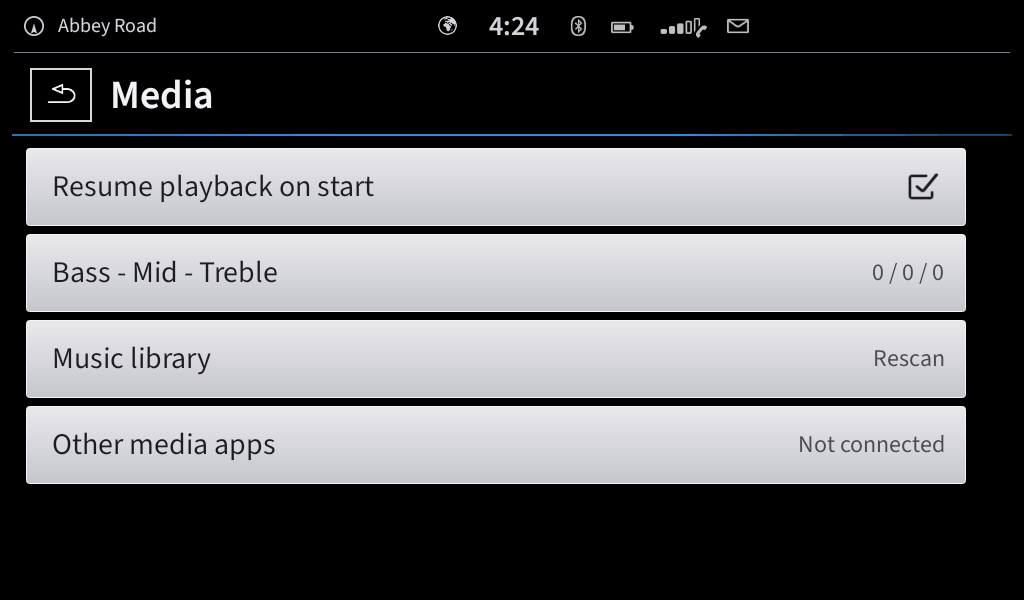
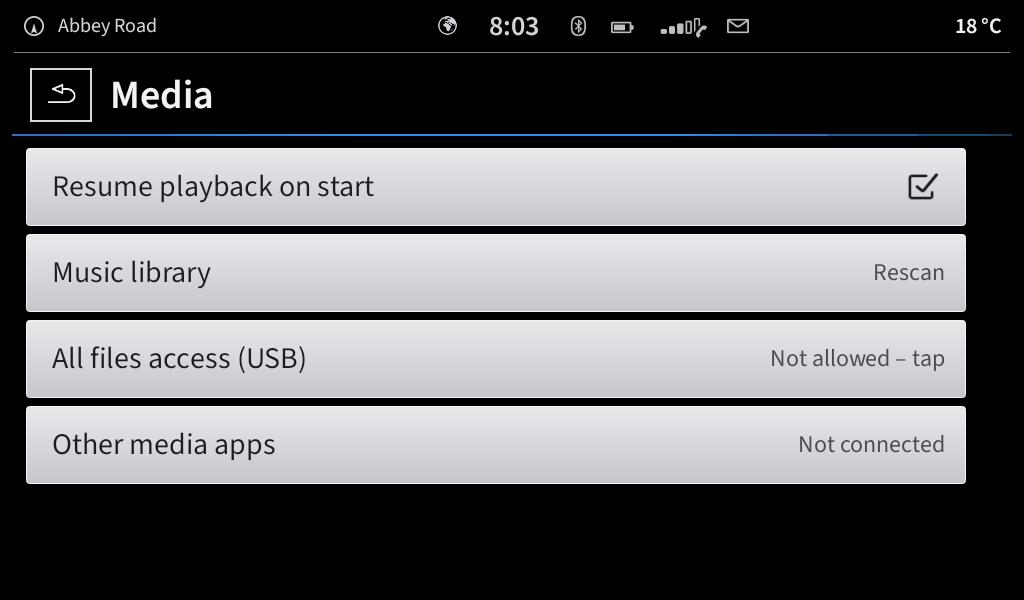
Back arrow where a page has no back key; README with new screenshots and options
The status bar shows a back arrow on pages without their own back key (hidden
on MENU, Sound, Ambient and settings sub-pages). README refreshed: App-Connect,
radio with logos, media widget / split screen, loading banner, vehicle pictures,
trimmed settings, temperature; screenshots regenerated.

Claude-Session: https://claude.ai/code/session_0111hCwS1Z8expNncaE3Z6rw

diff --git a/app/src/main/java/com/thecarlauncher/LauncherActivity.java b/app/src/main/java/com/thecarlauncher/LauncherActivity.java
@@ -79,6 +79,7 @@ public class LauncherActivity extends Activity implements LocationTracker.Listen
     private FrameLayout content;
     private TextView timeView, tagView, rightView, streetView;
     private View statusBar, statusRule;
+    private ImageView backArrow;
     private ImageView btIcon, battIcon, signalIcon, msgIcon;
     private ImageView globe;
 
@@ -198,6 +199,19 @@ public class LauncherActivity extends Activity implements LocationTracker.Listen
                 show(MENU, true);
             }
         });
+        // Back arrow for pages that have no back key of their own.
+        backArrow = Mib.icon(this, R.drawable.ui_ic_back, SB_GREY);
+        backArrow.setBackground(Mib.keyPressed());
+        backArrow.setPadding(Mib.px(this, 4), Mib.px(this, 4), Mib.px(this, 4), Mib.px(this, 4));
+        backArrow.setOnClickListener(new View.OnClickListener() {
+            @Override
+            public void onClick(View v) {
+                onBackPressed();
+            }
+        });
+        LinearLayout.LayoutParams bal = new LinearLayout.LayoutParams(Mib.px(this, 44), Mib.px(this, 40));
+        bal.rightMargin = Mib.px(this, 14);
+        left.addView(backArrow, bal);
         ImageView compass = Mib.icon(this, R.drawable.ui_sb_compass, SB_GREY);
         left.addView(compass, new LinearLayout.LayoutParams(Mib.px(this, 24), Mib.px(this, 24)));
         streetView = Mib.text(this, "", 20, Mib.regular(this), SB_GREY);
@@ -354,6 +368,13 @@ public class LauncherActivity extends Activity implements LocationTracker.Listen
         if (current != MENU) show(MENU, true);
     }
 
+    /** Shows the status-bar back arrow unless the page has its own back key. */
+    public void updateBackArrow() {
+        if (backArrow == null) return;
+        boolean own = current >= 0 && screens[current] != null && screens[current].hasOwnBack();
+        backArrow.setVisibility(current == MENU || own ? View.GONE : View.VISIBLE);
+    }
+
     /** Kept for screens that still ask for an accent colour. */
     public int accent() { return Mib.BLUE; }
 
@@ -374,6 +395,7 @@ public class LauncherActivity extends Activity implements LocationTracker.Listen
         int bar = idx == MENU ? View.GONE : View.VISIBLE;
         statusBar.setVisibility(bar);
         statusRule.setVisibility(bar);
+        updateBackArrow();
         Screen s = screens[idx];
         View v = s.view(content);
         if (v.getParent() == null) {

diff --git a/app/src/main/java/com/thecarlauncher/screens/SettingsScreen.java b/app/src/main/java/com/thecarlauncher/screens/SettingsScreen.java
@@ -139,6 +139,7 @@ public class SettingsScreen extends Screen {
         Entry e = stack.get(stack.size() - 1);
         title.setText(e.title);
         back.setVisibility(stack.size() > 1 ? View.VISIBLE : View.GONE);
+        act.updateBackArrow();
         content.removeAllViews();
         e.page.build();
         // Pages fade in like the rest of the launcher (not when only refreshing values).
@@ -160,6 +161,9 @@ public class SettingsScreen extends Screen {
         quietRender = true;
         render();
     }
+
+    @Override
+    public boolean hasOwnBack() { return stack.size() > 1; }
 
     @Override
     public boolean onBack() {

diff --git a/app/src/main/java/com/thecarlauncher/screens/Screen.java b/app/src/main/java/com/thecarlauncher/screens/Screen.java
@@ -33,6 +33,9 @@ public abstract class Screen {
 
     public void onDestroy() {}
 
+    /** True when the page draws its own back key (then the status bar shows none). */
+    public boolean hasOwnBack() { return false; }
+
     /** Return true if the back press was handled inside the screen. */
     public boolean onBack() { return false; }
 

diff --git a/app/src/main/java/com/thecarlauncher/screens/SoundScreen.java b/app/src/main/java/com/thecarlauncher/screens/SoundScreen.java
@@ -30,6 +30,9 @@ public class SoundScreen extends Screen {
     }
 
     @Override
+    public boolean hasOwnBack() { return true; }
+
+    @Override
     public String title() { return s("Duboki - Srednji - Visoki", "Bass - Mid - Treble"); }
 
     private String s(String sr, String en) { return Mib.t(act, sr, en); }

diff --git a/app/src/main/java/com/thecarlauncher/screens/AmbientScreen.java b/app/src/main/java/com/thecarlauncher/screens/AmbientScreen.java
@@ -41,6 +41,9 @@ public class AmbientScreen extends Screen {
     }
 
     @Override
+    public boolean hasOwnBack() { return true; }
+
+    @Override
     public String title() { return s("Ambijentalno osvetljenje", "Ambient lighting"); }
 
     private String s(String sr, String en) { return Mib.t(act, sr, en); }

diff --git a/README.md b/README.md
@@ -54,14 +54,21 @@ Text is in Serbian (Latin) by default; English can be picked under
 - **Bluetooth music without the factory app on screen**: song title, artist, album, position
   and length are read straight from the unit's Bluetooth module. Cover art is looked up
   online.
-- **Built-in FM radio** that drives the unit's tuner through the MCU: presets, RDS names, a
-  station list scan and the factory manual dial.
+- **Built-in FM radio** that drives the unit's tuner through the MCU: presets with station
+  logos, RDS names, a station list scan and the factory manual dial.
+- **App-Connect** page in the factory style that drives the unit's ZLink app (Android Auto,
+  CarPlay, mirroring) and shows the connection live.
 - **Navigation on OpenStreetMap**: address search, routing, turn-by-turn voice
   prompts, re-routing, nearby places, and **offline maps** of whole countries drawn on the unit.
 - **Vehicle page** in the style of a factory *Vehicle status* screen, with a picture of the car, GPS trip
   computer, fuel log and service reminders. No OBD adapter needed.
 - **Ambient lighting** and **Bass – Mid – Treble** pages modelled on the factory ones.
-- **Phone status in the top bar**: Bluetooth, phone battery, signal and a notifications envelope.
+- **Phone status in the top bar**: Bluetooth, phone battery, signal, a notifications envelope and
+  the outside temperature.
+- **Drop-down loading banner** for anything that takes a moment (radio scan, reading USB, maps,
+  route, phone connecting), soft fade-in on every page, and a back arrow wherever a page has no
+  back key of its own.
+- **Own car pictures**: brand, model and the car / interior pictures can be set from storage.
 - **True fullscreen** (no Android bars) and a smooth, GPU-accelerated MENU pager.
 
 ---
@@ -70,8 +77,8 @@ Text is in Serbian (Latin) by default; English can be picked under
 
 ### MENU
 
-Eight tiles in a 4×2 grid: **Radio, Media, Apps, App-Connect, Phone, Vehicle, Navigation,
-Setup**. Swipe left for a second page of pinned apps.
+Eight nearly black tiles in a 4×2 grid, with no status bar, like the factory MENU: **Radio, Media,
+Apps, App-Connect, Phone, Vehicle, Navigation, Setup**. Swipe left for a second page of pinned apps.
 
 - The page follows your finger 1:1 and glides to rest. It turns only in the direction you dragged:
   a quarter of the screen or a quick flick. It never stretches past the first or last page.
@@ -129,12 +136,9 @@ Related settings (*Setup → Bluetooth audio*):
 
 | Setting | Default | What it does |
 | --- | --- | --- |
-| Song straight from the BT module | On | Reads song info from `/dev/goc_serial`. Turn it off if the factory app stops getting calls or songs. |
-| Open the BT app briefly when choosing BT audio | Off | Fallback for units where the control broadcast is not enough: shows the factory app for about a second and comes back (needs **Display over other apps** for Car Launcher). |
 | Cover art from the internet | On | Online lookup of the cover by artist and title. |
-| BT audio app | Automatic | Which app is the Bluetooth player (the factory one is hidden from the app list). |
-| MCU channel for BT audio | Off | Advanced: forces an MCU audio channel. Normally not needed. |
-| Diagnostics | – | Shows what the module sends (`GOC ←` lines), media sessions, factory broadcasts, MCU packets and more. |
+| Open the BT app briefly (if there is no sound) | Off | Fallback for units where the control broadcast is not enough: shows the factory app for about a second and comes back (needs **Display over other apps** for Car Launcher). |
+| Diagnostics | – | Phone battery / signal, media sessions, the song as the Bluetooth module reports it and the module's last lines. |
 
 ### Radio
 
@@ -147,14 +151,16 @@ A built-in FM radio that controls the unit's real tuner through the MCU service.
   logo and its name under the tile.
 - Station logos come from the free [Radio Browser](https://www.radio-browser.info) database by RDS
   name: fetched automatically when a station is shown, or all at once with *Setup → Radio →
-  Download logos for found stations*. They are kept on the unit; none are bundled in the APK. Tap a preset to tune, long-press to store; an
-  empty slot says *Empty*.
+  Download logos for found stations*. They are kept on the unit; none are bundled in the APK.
+- Tap a preset to tune, long-press to store; an empty slot says *Empty*.
 - **Stations** scans the band into a station list.
 - **Manual** shows the factory FM dial for drag-tuning; the arrows then step 0.1 MHz.
 - Steering-wheel next/previous seek to the next station while the radio is the source.
 - On a unit without `mcu_service`, the Radio tile opens the factory radio app instead.
 
-![Radio station list](docs/screenshots/radio-stations.png)
+| Presets | Station list |
+| --- | --- |
+| ![Radio](docs/screenshots/radio.png) | ![Radio station list](docs/screenshots/radio-stations.png) |
 
 ### Navigation
 
@@ -180,6 +186,14 @@ offline (see [Offline maps](#offline-maps)); address search and routing need int
 | Route | Nearby | My destinations |
 | --- | --- | --- |
 | ![Route](docs/screenshots/nav-route.png) | ![Nearby](docs/screenshots/nav-nearby.png) | ![Destinations](docs/screenshots/nav-destinations.png) |
+
+**Media while navigating.** *Media* opens a small widget over the map with the cover, song and
+previous / play / next; it hides itself after 10 seconds. Its split button keeps the media in a
+column beside the map (remembered); long-press *Media* for the full Media screen.
+
+| Media widget | Split screen |
+| --- | --- |
+| ![Media widget](docs/screenshots/nav-media-widget.png) | ![Split screen](docs/screenshots/nav-media-split.png) |
 
 #### Offline maps
 
@@ -215,6 +229,10 @@ with the three phone-mode logos along the bottom (Android Auto, Apple CarPlay, M
 - *Setup* opens ZLink's own settings. Without ZLink, the page falls back to any other projection
   app found on the unit.
 
+| Waiting for a phone | Connecting | Connected |
+| --- | --- | --- |
+| ![App-Connect](docs/screenshots/appconnect.png) | ![Connecting](docs/screenshots/appconnect-connecting.png) | ![Connected](docs/screenshots/appconnect-connected.png) |
+
 ### Vehicle (CAR)
 
 Paged with the **<** **>** boxes like the factory menu. Everything comes from GPS and what you
@@ -232,6 +250,10 @@ enter; no diagnostic adapter is needed.
 | Status | Since refuelling | Fuel log | Service |
 | --- | --- | --- | --- |
 | ![Status](docs/screenshots/vehicle-status.png) | ![Refuel](docs/screenshots/vehicle-refuel.png) | ![Fuel](docs/screenshots/vehicle-fuel.png) | ![Service](docs/screenshots/vehicle-service.png) |
+
+*Setup → Vehicle* sets the brand and model and lets you pick your own car picture (Vehicle status)
+and interior picture (Ambient lighting) from the unit's storage; *Back to built-in* restores the
+originals.
 
 ### Ambient lighting
 
@@ -257,18 +279,30 @@ with a **Bluetooth audio** tile that switches the media player to BT.
 
 ### Settings
 
-*System settings*: screen, ambient lighting, time and date, language,
-units, navigation (map style, voice), media, Bluetooth audio, App-Connect, phone and radio, vehicle,
-Android settings and system information.
+*System settings*: screen, ambient lighting, time and date, language, units, navigation (offline
+maps, map style, voice, home / work), sound, media (library, All files access, other media apps),
+radio (LOC, RDS, station logos), Bluetooth audio, phone app, vehicle (brand, model, pictures),
+Android settings and system information. Options that no longer did anything useful were removed.
 
-| Settings | Media settings | Diagnostics |
-| --- | --- | --- |
-| ![Settings](docs/screenshots/settings.png) | ![Media settings](docs/screenshots/settings-media.png) | ![Diagnostics](docs/screenshots/diagnostics.png) |
+| Settings | Vehicle | Bluetooth audio | Radio |
+| --- | --- | --- | --- |
+| ![Settings](docs/screenshots/settings.png) | ![Vehicle](docs/screenshots/settings-vehicle.png) | ![Bluetooth](docs/screenshots/settings-bluetooth.png) | ![Radio](docs/screenshots/settings-radio.png) |
+
+### Loading banner
+
+Anything that takes a moment drops a black banner, two status bars tall, from the top: the factory
+spinner (in the ambient colour, turning clockwise) and a line saying what is happening, e.g.
+*Searching for radio stations… 4 · 94.8 MHz*, *Reading music from USB…*, *Downloading map: 34 %*,
+*Calculating the route…* or *Connecting: Apple CarPlay…*. It slides away when done and never
+blocks taps.
+
+![Loading banner](docs/screenshots/loading-banner.png)
 
 ### Status bar
 
 From left to right:
 
+- **Back arrow** on pages that have no back key of their own.
 - **Compass and street name**: the current street from GPS and reverse geocoding. Tap it to go
   to MENU.
 - **Globe**: shown dimmed when there is no internet.
@@ -276,7 +310,8 @@ From left to right:
 - **Phone icons**: FM while the radio plays, the **Bluetooth** icon, phone **battery**,
   **signal**, and an **envelope** when the phone has notifications. Tap the envelope to list
   them.
-- **Speed**: shown on the right.
+- **Outside temperature** on the right: the current weather at the car's position (Open-Meteo,
+  refreshed every 15 minutes).
 
 The text and icons are a touch dimmer than the screen content, like the factory screen.
 
@@ -307,8 +342,8 @@ Requires Android 5.0 or newer.
 
 Then, in *Setup*:
 
-- **Bluetooth audio**: leave *Song straight from the BT module* on, and play something on the
-  phone to check that the title shows.
+- **Bluetooth audio**: choose *BT-audio* in Media and play something on the phone to check that
+  the title shows.
 - **Radio**: check that *FM tuner* says it is available.
 - **Vehicle → Service**: enter the odometer, the oil-change interval and the registration
   date so the reminders work.
@@ -411,10 +446,10 @@ information shows *robolectric*.
 
 | Problem | What to try |
 | --- | --- |
-| BT music plays but no title shows | *Setup → Bluetooth audio*: make sure *Song straight from the BT module* is on. Open *Diagnostics* and tap *GOC: ask for song info*; the `GOC ←` lines should show `MI…`. |
-| No sound after choosing BT-audio | Turn on *Open the BT app briefly when choosing BT audio* as a fallback. |
+| BT music plays but no title shows | *Setup → Bluetooth audio → Diagnostics* → *Ask for song info*; the `←` lines should show `MI…`. Send a photo of that page with a bug report. |
+| No sound after choosing BT-audio | Turn on *Open the BT app briefly (if there is no sound)* as a fallback. |
 | The BT app opens and stays on screen | Allow *Display over other apps* for Car Launcher (*Setup → Bluetooth audio → Allow returning from the BT app*). |
-| Calls stop working in the factory app | Turn off *Song straight from the BT module* and report it. |
+| Calls stop working in the factory app | Report it with the *Potential issue* form. |
 | No cover art | The unit needs internet. Songs whose "artist" is a video channel name may not be found. |
 | Radio tile opens another app | `mcu_service` wasn't found. *Setup → Radio* shows the tuner status. |
 | Other apps' songs don't show | Enable notification access: *Media → Source → Connect apps*. |
@@ -429,7 +464,9 @@ information shows *robolectric*.
 | BT song title / artist / album from the module | Confirmed |
 | BT position, length and full progress bar | Confirmed |
 | UI, MENU, status bar, fullscreen | In daily use |
-| BT-audio: app opens briefly, launcher comes back | New in 3.2.1, needs testing |
+| BT-audio through the factory app's control broadcast (no screen) | New in 3.7.0, needs testing |
+| App-Connect connection states and auto-open | New in 3.9.0, needs testing with a phone |
+| Station logos (Radio Browser) | New in 4.0.0, needs testing on the unit's connection |
 | Cover art lookup | New, needs testing on the unit's connection |
 | Clearing the song on phone disconnect | New, relies on the module's `MY`/`IA` lines |
 | Calls in the factory app while reading the module | Needs confirming |
